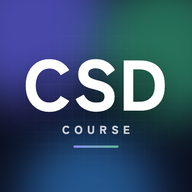
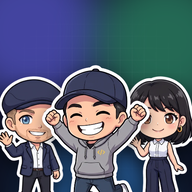
アプリのアイコンを3人のキャラクターに変更、ログインページ（ユーザー名＋パスワード）と CloudFront 用の認証 Function を追加

diff --git a/login.html b/login.html
@@ -1,0 +1,51 @@
+<!DOCTYPE html>
+<html lang="ja">
+<head>
+    <meta charset="UTF-8">
+    <meta name="viewport" content="width=device-width, initial-scale=1.0, viewport-fit=cover">
+    <meta name="theme-color" content="#0b1020">
+    <meta name="robots" content="noindex">
+    <title>ログイン - CSD講座</title>
+    <link rel="icon" href="icons/icon-192.png">
+    <link rel="manifest" href="manifest.json">
+    <link rel="apple-touch-icon" href="icons/apple-touch-icon.png">
+    <meta name="apple-mobile-web-app-capable" content="yes">
+    <meta name="apple-mobile-web-app-title" content="CSD講座">
+    <style>
+        * { box-sizing: border-box; }
+        body { margin: 0; min-height: 100vh; min-height: 100dvh; display: grid; place-items: center; padding: 24px; padding-top: calc(24px + env(safe-area-inset-top)); background: #0b1020; color: #1d2433; font-family: 'Hiragino Sans', 'Noto Sans JP', sans-serif; }
+        .card { width: 100%; max-width: 400px; background: #fff; border-radius: 24px; padding: 32px 28px; box-shadow: 0 30px 60px -20px rgba(0,0,0,.6); }
+        .mark { width: 56px; height: 56px; border-radius: 16px; background: #0b1020; color: #fff; display: grid; place-items: center; font-weight: 900; font-size: 18px; letter-spacing: .04em; margin-bottom: 18px; }
+        h1 { font-size: 22px; margin: 0 0 6px; }
+        p { margin: 0 0 20px; color: #5b6475; font-size: 14px; line-height: 1.7; }
+        label { display: block; font-size: 12px; font-weight: 700; color: #5b6475; margin-bottom: 6px; letter-spacing: .06em; }
+        input { width: 100%; font-size: 17px; padding: 12px 14px; border-radius: 12px; border: 1.5px solid #e7e3da; background: #faf9f6; outline: none; }
+        input:focus { border-color: #3f5f85; background: #fff; }
+        button { width: 100%; margin-top: 14px; padding: 14px; border: 0; border-radius: 12px; background: #0b1020; color: #fff; font-size: 16px; font-weight: 700; cursor: pointer; }
+        button:hover { background: #131a33; }
+        .err { display: none; margin: 0 0 12px; padding: 10px 12px; border-radius: 10px; background: #faf0ee; color: #8f3a30; font-size: 13px; }
+        .err.show { display: block; }
+        .foot { margin-top: 18px; font-size: 12px; color: #8a93a5; text-align: center; }
+    </style>
+</head>
+<body>
+    <form class="card" id="f" method="get" action="/auth" autocomplete="on">
+        <img class="mark" src="icons/icon-192.png" alt="" width="56" height="56">
+        <h1>CSD 講座テキスト</h1>
+        <p>講義で案内したユーザー名とパスワードを入力してください。この端末では、次回から入力なしで開けます。</p>
+        <div class="err" id="err">ユーザー名またはパスワードが違います。もう一度お試しください。</div>
+        <label for="u">ユーザー名</label>
+        <input id="u" name="u" type="text" autocomplete="username" autocapitalize="none" autocorrect="off" spellcheck="false" required autofocus>
+        <label for="pw" style="margin-top:12px">パスワード</label>
+        <input id="pw" name="pw" type="password" autocomplete="current-password" required>
+        <input type="hidden" name="next" id="next" value="/home.html">
+        <button type="submit">ログイン</button>
+        <p class="foot">受講者の方だけにお渡ししている情報です</p>
+    </form>
+    <script>
+        var q = new URLSearchParams(location.search);
+        if (q.get('e')) document.getElementById('err').classList.add('show');
+        var n = q.get('next'); if (n && n.charAt(0) === '/') document.getElementById('next').value = n;
+    </script>
+</body>
+</html>

diff --git a/infra/cloudfront-auth-function.js b/infra/cloudfront-auth-function.js
@@ -1,0 +1,57 @@
+// CloudFront Function（viewer-request / cloudfront-js-2.0）
+// Basic 認証の代わりに、ログインページ ＋ Cookie でログイン状態を持つ仕組み。
+// iPhone のホーム画面アプリ（PWA）は Basic 認証のダイアログを出せないため、
+// 一度ログインページでユーザー名とパスワードを入れたら Cookie を発行し、以後はそのまま通す。
+//
+// 使い方：
+//   1. 下の USER / PASSWORD に講座のユーザー名とパスワード、TOKEN に推測されにくい長い文字列（40文字くらい）を入れる
+//      ※ このファイルには書かず、CloudFront のコンソール上で入れること（Git に残さないため）
+//   2. CloudFront の既存の Basic 認証 Function を、この内容で置き換えて Publish する
+//   3. リポジトリの /login.html がデプロイされていること（push すれば自動）
+var USER = 'ここにユーザー名';
+var PASSWORD = 'ここにパスワード';
+var TOKEN = 'ここにランダムな長い文字列';
+var COOKIE = 'csd_auth';
+var ONE_YEAR = 60 * 60 * 24 * 365;
+
+// ログイン前でも取りに行ける必要があるもの（アプリのアイコン・マニフェスト・SW・ログインページ）
+var OPEN = /^\/(login\.html|offline\.html|manifest\.json|sw\.js|favicon\.ico|icons\/.*|img\/qr-site\.(svg|png))$/;
+
+function dec(v) { try { return decodeURIComponent(v); } catch (e) { return v; } }
+
+function handler(event) {
+    var req = event.request;
+    var uri = req.uri;
+    var cookies = req.cookies || {};
+    var qs = req.querystring || {};
+
+    // 1) 認証：/auth?u=...&pw=...&next=/home.html
+    if (uri === '/auth') {
+        var u = qs.u ? dec(qs.u.value) : '';
+        var pw = qs.pw ? dec(qs.pw.value) : '';
+        var next = qs.next ? dec(qs.next.value) : '/home.html';
+        if (!/^\/[A-Za-z0-9_\-\/.?=&%]*$/.test(next)) next = '/home.html';
+        if (u === USER && pw === PASSWORD) {
+            return {
+                statusCode: 302, statusDescription: 'Found',
+                headers: { location: { value: next } },
+                cookies: { csd_auth: { value: TOKEN, attributes: 'Path=/; Max-Age=' + ONE_YEAR + '; Secure; HttpOnly; SameSite=Lax' } }
+            };
+        }
+        return { statusCode: 302, statusDescription: 'Found', headers: { location: { value: '/login.html?e=1&next=' + encodeURIComponent(next) } } };
+    }
+
+    // 2) 認証なしで通すもの
+    if (OPEN.test(uri)) return req;
+
+    // 3) Cookie があれば通す
+    if (cookies[COOKIE] && cookies[COOKIE].value === TOKEN) return req;
+
+    // 4) それ以外：ページならログインへ、ファイルなら 403
+    if (uri === '/' || /\.html$/.test(uri) || uri.indexOf('.') === -1) {
+        var target = uri === '/' ? '/home.html' : uri;
+        if (qs.source) target += '?source=' + qs.source.value;
+        return { statusCode: 302, statusDescription: 'Found', headers: { location: { value: '/login.html?next=' + encodeURIComponent(target) } } };
+    }
+    return { statusCode: 403, statusDescription: 'Forbidden' };
+}

diff --git a/sw.js b/sw.js
@@ -3,14 +3,14 @@
    - CSS / JS / 画像 / フォント：キャッシュを返しつつ裏で更新（stale-while-revalidate）
    - 動画：キャッシュしない（容量が大きく、途中からの読み込みがあるため）
    更新するときは VERSION を変える */
-var VERSION = 'csd-2026-10-13b';
+var VERSION = 'csd-2026-10-13c';
 var CACHE = 'csd-' + VERSION;
 
 var PAGES = [
   'index.html', 'handson-basic.html', 'handson-refactor.html', 'handson-assertions.html', 'handson-advanced.html', 'handson-database.html',
   'ai-coding-antigravity.html', 'ai-coding.html', 'mob-ai.html', 'mob-ai-cyberdojo.html',
   'cicd-index.html', 'cicd-handson-basic.html', 'cicd-handson-quality.html', 'cicd-handson-deploy.html',
-  'handson-setup-mac.html', 'handson-setup-windows.html', 'csd-preview.html', 'replit-tdd.html', 'home.html', 'app.html', 'offline.html'
+  'handson-setup-mac.html', 'handson-setup-windows.html', 'csd-preview.html', 'replit-tdd.html', 'home.html', 'app.html', 'login.html', 'offline.html'
 ];
 var ASSETS = ['styles.css', 'ui2.css', 'code-copy.js', 'global-menu.js', 'nav-highlight.js', 'scroll-to-top.js', 'page-nav.js', 'ui2.js',
   'manifest.json', 'img/qr-site.svg', 'icons/icon-192.png', 'icons/icon-512.png', 'icons/apple-touch-icon.png'];
@@ -39,6 +39,7 @@ self.addEventListener('fetch', function (e) {
   if (req.method !== 'GET') return;
   var url = new URL(req.url);
   if (isVideo(url)) return;
+  if (url.pathname === '/auth' || url.pathname === '/login.html') return;
 
   // ページ：ネットワーク優先（3.5秒でキャッシュに切り替え）
   if (req.mode === 'navigate') {
